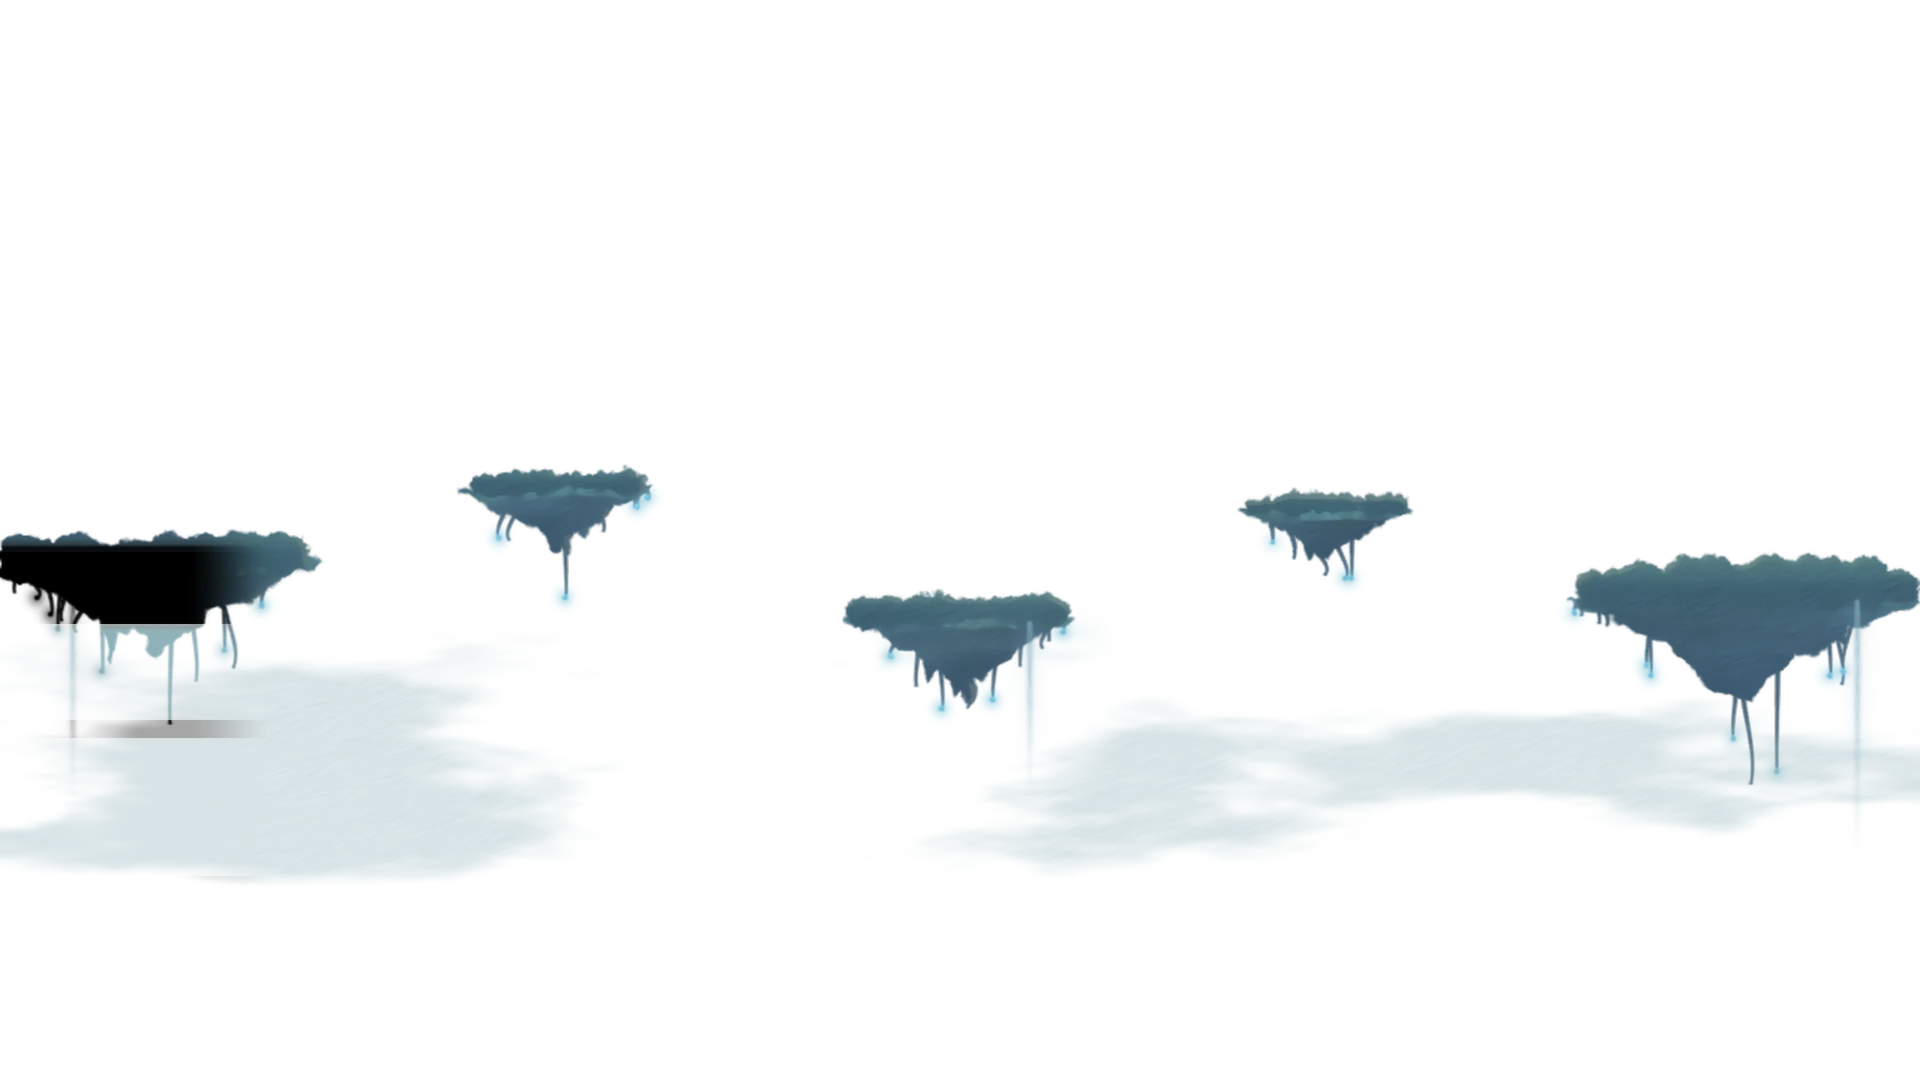
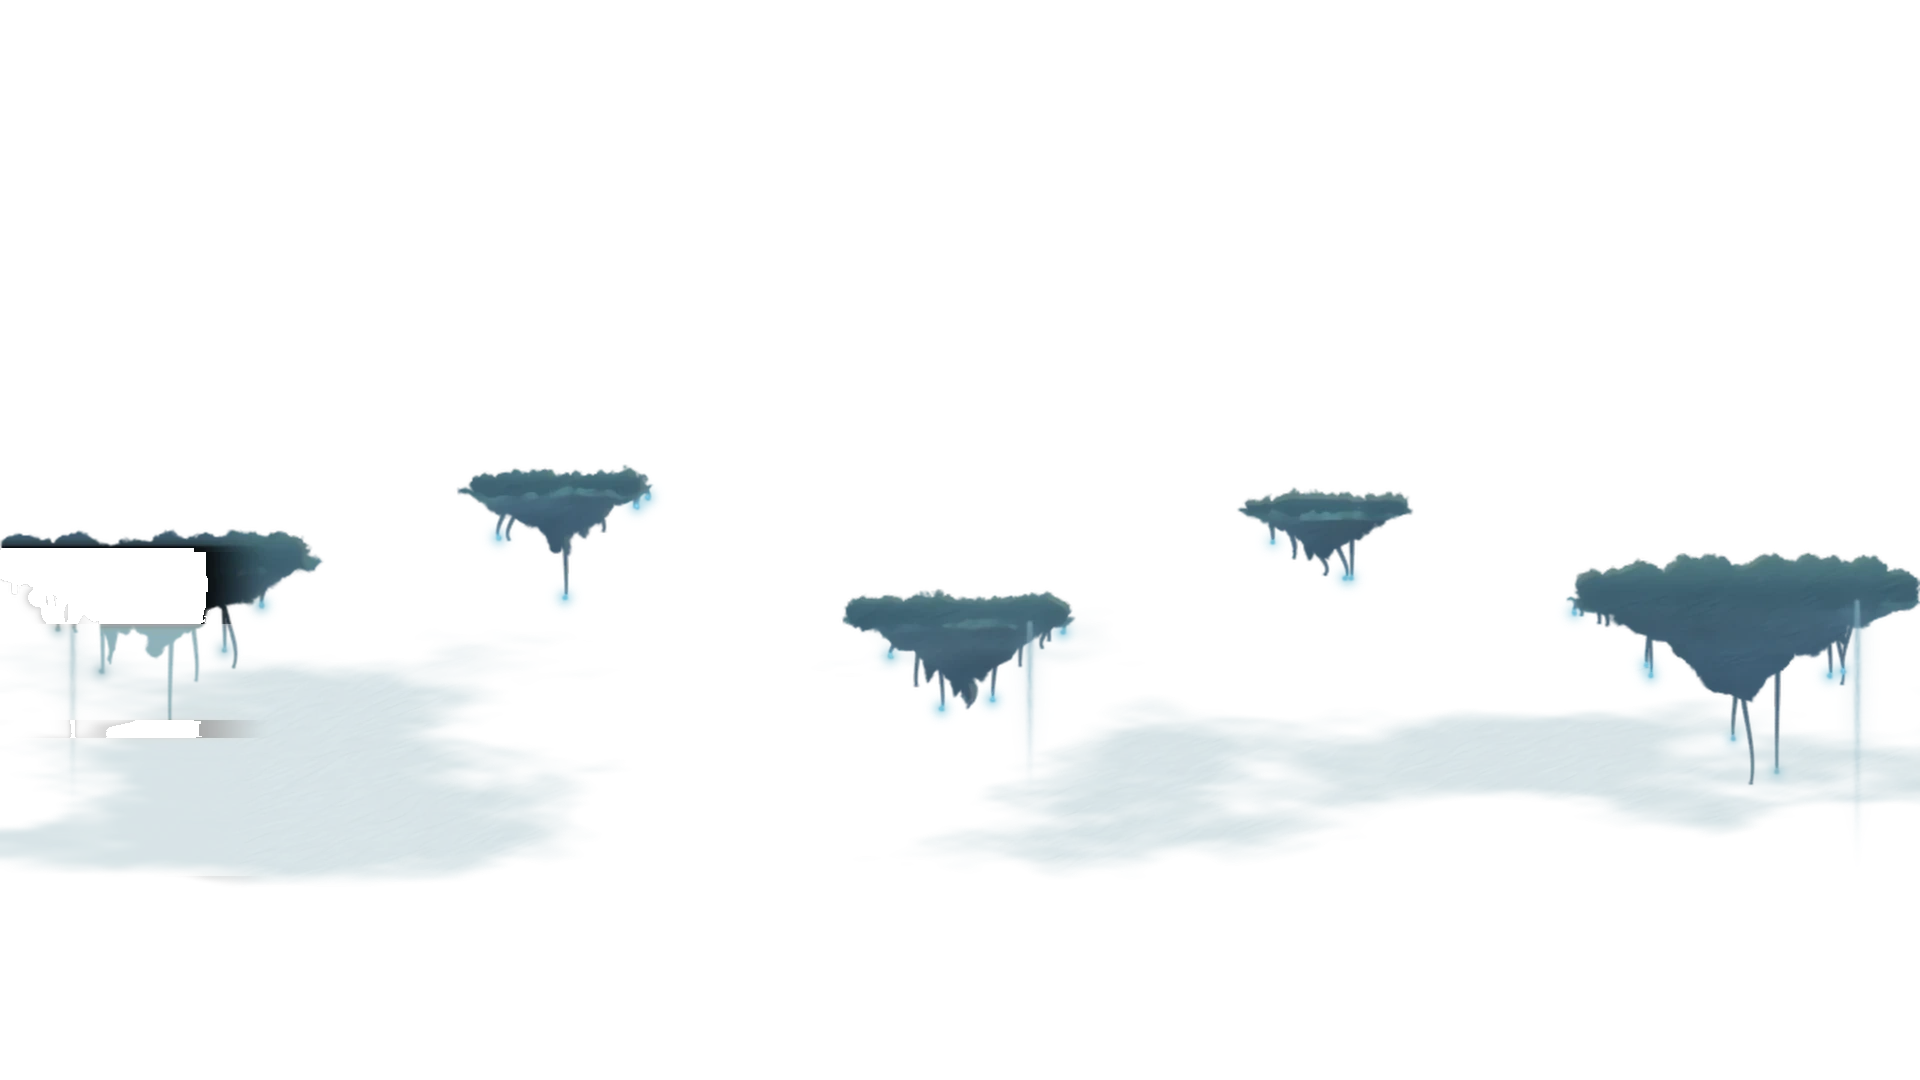
Drop boy-named appointments and stop the hub veil from eating taps.
A Dan or Ainsley row whose title, description, or location names Hayes or Harris is dropped before it can become Appointment. Hayes sky and far are re-exported without the smeared edge and the black block, and the 1920 wrap copy is mirrored. The offline retry stays on the NEXT card only. Hub links navigate inside the click, and the arrival veil no longer sits on top of the tiles.

Changed region(s): [[0.0, 0.4889, 0.125, 0.5806], [0.0312, 0.6417, 0.125, 0.7028]]

diff --git a/sheet-index.html b/sheet-index.html
@@ -3807,7 +3807,7 @@ animation:atlasPulse 2.4s ease-in-out infinite;}
 </style>
 <link rel="stylesheet" href="house-scroll.css?v=SCROLL5" />
 <link rel="stylesheet" href="house-spotify.css?v=SPOTIFY3" /><!-- SPOTIFY1 -->
-<script>(function(){var h=document.documentElement;h.classList.add("ori-calm");var veil=false;try{if(sessionStorage.getItem("ori-from")||/from=/.test(location.hash||""))veil=true;var stamp=+sessionStorage.getItem("ori-veil-next")||0;if(stamp&&Date.now()-stamp<8000){veil=true;sessionStorage.removeItem("ori-veil-next");}}catch(e){}if(veil){h.classList.add("ori-arriving");h.setAttribute("data-ori-veil","1");var s=document.createElement("style");s.textContent="html.ori-arriving::before,html.ori-held::before{content:none!important;display:none!important;background:#062018!important}";(document.head||h).appendChild(s);var el=document.createElement("div");el.className="ori-iris";el.setAttribute("data-ori-veil","1");el.style.cssText="position:fixed;inset:0;z-index:2147483647;background:#062018;opacity:1";el.style.setProperty("animation","none","important");h.appendChild(el);addEventListener("pageshow",function(){var start=0;function step(now){if(!start)start=now;var t=now-start;var op=t<160?1:Math.max(0,1-(t-160)/420);el.style.opacity=String(op);el.style.transform="translate3d(0,"+(Math.min(t,400)*0.001).toFixed(3)+"px,0)";void el.offsetWidth;if(op>0.001)requestAnimationFrame(step);else{el.remove();h.classList.remove("ori-arriving");}}requestAnimationFrame(step);});}try{var sw=Math.min(screen.width||0,screen.height||0);if(sw&&sw<=600){h.classList.add("ori-calm-phone");var v=document.querySelector('meta[name="viewport"]');if(v)v.setAttribute("content","width=device-width, initial-scale=1, viewport-fit=cover");}}catch(e){}})();</script>
+<script>(function(){var h=document.documentElement;h.classList.add("ori-calm");var veil=false;try{if(sessionStorage.getItem("ori-from")||/from=/.test(location.hash||""))veil=true;var stamp=+sessionStorage.getItem("ori-veil-next")||0;if(stamp&&Date.now()-stamp<8000){veil=true;sessionStorage.removeItem("ori-veil-next");}}catch(e){}if(veil){h.classList.add("ori-arriving");h.setAttribute("data-ori-veil","1");var s=document.createElement("style");s.textContent="html.ori-arriving::before,html.ori-held::before{content:none!important;display:none!important;background:#062018!important}";(document.head||h).appendChild(s);var el=document.createElement("div");el.className="ori-iris";el.setAttribute("data-ori-veil","1");el.style.cssText="position:fixed;inset:0;z-index:2147483647;background:#062018;opacity:1;pointer-events:none";el.style.setProperty("animation","none","important");h.appendChild(el);addEventListener("pageshow",function(){var start=0;function step(now){if(!start)start=now;var t=now-start;var op=t<160?1:Math.max(0,1-(t-160)/420);el.style.opacity=String(op);el.style.transform="translate3d(0,"+(Math.min(t,400)*0.001).toFixed(3)+"px,0)";void el.offsetWidth;if(op>0.001)requestAnimationFrame(step);else{el.remove();h.classList.remove("ori-arriving");}}requestAnimationFrame(step);});}try{var sw=Math.min(screen.width||0,screen.height||0);if(sw&&sw<=600){h.classList.add("ori-calm-phone");var v=document.querySelector('meta[name="viewport"]');if(v)v.setAttribute("content","width=device-width, initial-scale=1, viewport-fit=cover");}}catch(e){}})();</script>
 <link rel="stylesheet" href="house-ori-calm.css?v=CALM1" />
 <style id="glance-first">
 /* GLANCE1 · phone: kids + next leave first, then cams / lights / music */

diff --git a/kid-world.js b/kid-world.js
@@ -235,16 +235,10 @@
         });
         stage.appendChild(n);
       }
-      n.hidden = false;
-      n.style.setProperty("height", "64px", "important");
-      n.style.setProperty("min-height", "64px", "important");
-      n.style.setProperty("min-width", "64px", "important");
-      n.style.setProperty("font-size", "24px", "important");
-      n.style.setProperty("box-sizing", "border-box", "important");
-      n.style.setProperty("display", "flex", "important");
-      n.style.setProperty("align-items", "center", "important");
-      try { console.info("[kid-next] schedule feed missing"); } catch (eLog) {}
-      n.textContent = "Schedule not loaded · tap to retry";
+      /* The retry lives on the NEXT card only. This toast stays hidden. */
+      n.hidden = true;
+      n.textContent = "";
+      n.style.setProperty("display", "none", "important");
       if (document.body) document.body.classList.add("kw-rest");
     }
     function hideRest() {
@@ -271,9 +265,10 @@
         note.type = "button";
         note.className = "kw-offline";
         note.setAttribute("data-kw-offline", "");
-        note.style.setProperty("min-height", "0", "important");
+        note.style.setProperty("min-height", "64px", "important");
         note.style.setProperty("height", "64px", "important");
         note.style.setProperty("max-height", "64px", "important");
+        note.style.setProperty("flex", "0 0 64px", "important");
         note.style.setProperty("font-size", "24px", "important");
         note.style.setProperty("line-height", "1", "important");
         note.style.setProperty("padding", "0 16px", "important");

diff --git a/house-ori-calm.js b/house-ori-calm.js
@@ -43,17 +43,12 @@
     el.className = "ori-iris";
     el.setAttribute("data-calm", "1");
     el.setAttribute("aria-hidden", "true");
-    el.style.cssText = "position:fixed;inset:0;z-index:2147483647;background:#062018;opacity:0;pointer-events:none;transition:opacity .2s ease";
+    el.style.cssText = "position:fixed;inset:0;z-index:2147483647;background:#062018;opacity:1;pointer-events:none";
     try { document.getAnimations().forEach(function (an) { if (an.playState === "running") { an.pause(); held.push(an); } }); } catch (e) {}
     root.appendChild(el);
-    void getComputedStyle(el).opacity;
-    el.style.opacity = "1";
-    if (root.classList.contains("ori-reduced") || (RMQ && RMQ.matches)) { setTimeout(function () { leave(u.href); }, 0); return; }
-    /* VEILPAUSE1 · leave on the frame after the veil was drawn at opacity >= .9 (and >= 320ms), never later than 1.5s. */
-    var t0 = Date.now(), gone = false, shown = false;
-    function go() { if (gone) return; gone = true; leave(u.href); }
-    function tick() { if (gone) return; if (shown) return go(); if (Date.now() - t0 >= 320 && (parseFloat(getComputedStyle(el).opacity) || 0) >= 0.9) shown = true; requestAnimationFrame(tick); }
-    requestAnimationFrame(tick);
-    setTimeout(go, 1500);
+    void el.offsetWidth;
+    /* Leave in this click. Waiting for a transition to reach opacity .9 drops the
+       user activation, and a paused transition never gets there, so the tap dies. */
+    leave(u.href);
   }, false);
 })();

diff --git a/house-event-display.js b/house-event-display.js
@@ -11,6 +11,8 @@
      are a boys-only ban so Ainsley's and Dan's own sessions can stay. */
   var HARD = /(?:\b(?:ot|speech|drs?|doctors?|telehealth|counsel(?:or|ing|ling)?|anxiety|provider|clinical)\b|\btherap|\bpsycholog|\bpsychiatr)/i;
   var SOFT = /\b(?:appointments?|sessions?)\b/i;
+  var APPT_WORD = /\b(?:appointments?|sessions?|dentists?)\b/i;
+  var BOY_NAME = /\b(?:hayes|harris)\b/i;
   var CLINICAL = new RegExp(HARD.source + "|" + SOFT.source, "i");
   var SKIP_KEY = /^(id|icdId|href|url|link|htmlLink|source|tz|status|tone|cadence|theme|color|colour|cls|class|kid|owner|audience|kidId|providerOptIn|allDay|leaveBy|timeRole)$/i;
   var CANCEL = /(?:^|\b)(?:cancel+ed|cxl)\b/i;
@@ -53,6 +55,7 @@
     if (typeof ev === "string") {
       var s = nfkc(ev);
       if (CANCEL.test(s)) return true;
+      if (BOY_NAME.test(s) && APPT_WORD.test(s)) return true;
       if (isBoy(audience)) return HARD.test(s) || SOFT.test(s);
       return HARD.test(s);
     }
@@ -64,6 +67,9 @@
     var trusted = /^(ainsley|adult|dan|dad|shared|hub)$/i.test(who);
     if (HARD.test(blob)) return true;
     if (boy || !trusted) return SOFT.test(blob);
+    /* A boy named in the title, description, or location is dropped before it can become "Appointment". */
+    var named = nfkc([titleBlob(ev), textOf(ev.description), textOf(ev.location)].join("\n"));
+    if (BOY_NAME.test(named) && APPT_WORD.test(named)) return true;
     return false;
   }
 

diff --git a/mercury-run.js b/mercury-run.js
@@ -465,8 +465,21 @@
     if (img.width === W && img.height === H) {
       var x0 = Math.round(-cam * parallax + (oxOff || 0));
       g.drawImage(img, x0, 0);
-      if (x0 > 0) g.drawImage(img, x0 - img.width, 0);
-      if (x0 < 0) g.drawImage(img, x0 + img.width, 0);
+      /* Mirror the wrap so the edge meets itself. A straight repeat jumps by the left/right column delta. */
+      if (x0 > 0) {
+        g.save();
+        g.translate(x0, 0);
+        g.scale(-1, 1);
+        g.drawImage(img, 0, 0);
+        g.restore();
+      }
+      if (x0 < 0) {
+        g.save();
+        g.translate(x0 + img.width, 0);
+        g.scale(-1, 1);
+        g.drawImage(img, -img.width, 0);
+        g.restore();
+      }
       return;
     }
     var tr = trimFor(img);

diff --git a/scripts/qa/acer_r36_proof.py b/scripts/qa/acer_r36_proof.py
@@ -1,0 +1,145 @@
+#!/usr/bin/env python3
+"""Hub click and touch proof at 1920x1080@1, plus offline copy count.
+Writes artifacts/acer-r36/hub-nav-proof.json and hub-nav-proof.log.
+"""
+import json, threading, time
+from http.server import ThreadingHTTPServer, BaseHTTPRequestHandler
+from pathlib import Path
+from urllib.parse import unquote
+
+import sys
+sys.path.insert(0, str(Path(__file__).resolve().parent))
+from pw_chrome import launch_kw
+from playwright.sync_api import sync_playwright
+
+ROOT = Path(__file__).resolve().parents[2]
+PREFIX = "/dmward23-web/wardos-house-face/dda6a552"
+OUT = Path("/opt/cursor/artifacts/acer-r36")
+KIDS = [
+    ("a.tile.ainsley", "kid-ainsley.html"),
+    ("a.tile.hayes", "kid-hayes.html"),
+    ("a.tile.harris", "kid-harris.html"),
+    ("a.tile.dan", "sheet-today.html"),
+]
+
+
+class H(BaseHTTPRequestHandler):
+    def log_message(self, *a):
+        pass
+
+    def do_GET(self):
+        path = unquote(self.path.split("?")[0])
+        if path.startswith(PREFIX):
+            path = path[len(PREFIX):] or "/"
+        if path.endswith("/"):
+            path += "index.html"
+        f = ROOT / path.lstrip("/")
+        if not f.is_file():
+            self.send_response(404)
+            self.end_headers()
+            return
+        data = f.read_bytes()
+        ctype = {".html": "text/html", ".js": "text/javascript", ".css": "text/css"}.get(f.suffix, "application/octet-stream")
+        self.send_response(200)
+        self.send_header("Content-Type", ctype)
+        self.send_header("Content-Length", str(len(data)))
+        self.end_headers()
+        self.wfile.write(data)
+
+
+def serve():
+    httpd = ThreadingHTTPServer(("127.0.0.1", 0), H)
+    threading.Thread(target=httpd.serve_forever, daemon=True).start()
+    return httpd, "http://127.0.0.1:%d" % httpd.server_address[1]
+
+
+def hit(page, sel):
+    return page.evaluate("""(sel) => {
+      const a = document.querySelector(sel);
+      if (!a) return { ok: false, why: 'missing' };
+      const r = a.getBoundingClientRect();
+      const x = r.left + r.width / 2, y = r.top + r.height / 2;
+      const top = document.elementFromPoint(x, y);
+      return {
+        ok: true, x, y, href: a.getAttribute('href') || '',
+        topTag: top && top.tagName,
+        topClass: top && (top.className && top.className.baseVal || top.className || ''),
+        topIsAnchor: top === a,
+        inside: !!(top && a.contains(top))
+      };
+    }""", sel)
+
+
+def main():
+    OUT.mkdir(parents=True, exist_ok=True)
+    httpd, origin = serve()
+    log = []
+    rows = []
+    offline = []
+    try:
+        with sync_playwright() as p:
+            browser = p.chromium.launch(**launch_kw(p, args=["--no-sandbox", "--disable-dev-shm-usage"]))
+            for label, prefix in (("local", ""), ("prefixed", PREFIX)):
+                for gesture in ("click", "touch"):
+                    ctx = browser.new_context(viewport={"width": 1920, "height": 1080}, device_scale_factor=1, has_touch=True)
+                    page = ctx.new_page()
+                    hub = origin + prefix + "/sheet-index.html"
+                    page.goto(hub, wait_until="domcontentloaded", timeout=30000)
+                    page.wait_for_function("() => !document.querySelector('.ori-iris')", timeout=4000)
+                    page.wait_for_timeout(200)
+                    nav = page.evaluate("""() => [...document.querySelectorAll('.hub-launch a')].map(a => ({
+                      href: a.getAttribute('href'), text: (a.textContent || '').trim()
+                    }))""")
+                    targets = list(KIDS) + [(".hub-launch a[href='%s']" % n["href"], n["href"].split("?")[0]) for n in nav]
+                    for sel, expect in targets:
+                        info = hit(page, sel)
+                        landed = ""
+                        err = ""
+                        t0 = time.time()
+                        try:
+                            if gesture == "touch":
+                                page.touchscreen.tap(info["x"], info["y"])
+                            else:
+                                page.mouse.click(info["x"], info["y"])
+                            page.wait_for_url("**/" + expect.split("?")[0].split("/")[-1] + "*", timeout=2000, wait_until="commit")
+                            landed = page.url
+                        except Exception as e:
+                            err = str(e).split("\n")[0][:180]
+                            landed = page.url
+                        ms = int((time.time() - t0) * 1000)
+                        ok = expect.split("?")[0] in landed and info.get("inside") and ms <= 2000
+                        row = {"origin": label, "gesture": gesture, "sel": sel, "expect": expect, "hit": info, "landed": landed, "ms": ms, "ok": ok, "err": err}
+                        rows.append(row)
+                        log.append("%s %s %s -> %s in %dms inside=%s topAnchor=%s %s" % (
+                            label, gesture, expect, "OK" if ok else "FAIL", ms, info.get("inside"), info.get("topIsAnchor"), err))
+                        page.goto(hub, wait_until="domcontentloaded", timeout=30000)
+                        page.wait_for_function("() => !document.querySelector('.ori-iris')", timeout=4000)
+                    ctx.close()
+            off = browser.new_context(viewport={"width": 1920, "height": 1080}, device_scale_factor=1)
+            op = off.new_page()
+            for kid in ("hayes", "harris", "ainsley"):
+                op.goto(origin + "/kid-%s.html?pfOffline=1" % kid, wait_until="domcontentloaded", timeout=30000)
+                op.wait_for_timeout(1200)
+                count = op.evaluate("""() => {
+                  const nodes = [...document.querySelectorAll('button, a, [role=button]')];
+                  return nodes.filter(n => {
+                    const t = (n.textContent || '');
+                    if (t.indexOf('Schedule not loaded') < 0) return false;
+                    const r = n.getBoundingClientRect();
+                    const cs = getComputedStyle(n);
+                    return r.width >= 64 && r.height >= 64 && cs.visibility !== 'hidden' && cs.display !== 'none' && !n.hidden;
+                  }).length;
+                }""")
+                offline.append({"kid": kid, "visible": count})
+                log.append("offline %s visible=%s" % (kid, count))
+            browser.close()
+    finally:
+        httpd.shutdown()
+    proof = {"rows": rows, "offline": offline, "pass": all(r["ok"] for r in rows) and all(o["visible"] == 1 for o in offline)}
+    (OUT / "hub-nav-proof.json").write_text(json.dumps(proof, indent=2))
+    (OUT / "hub-nav-proof.log").write_text("\n".join(log) + "\n")
+    print(json.dumps({"pass": proof["pass"], "n": len(rows), "fail": [r for r in rows if not r["ok"]][:6], "offline": offline}))
+
+
+if __name__ == "__main__":
+    main()
